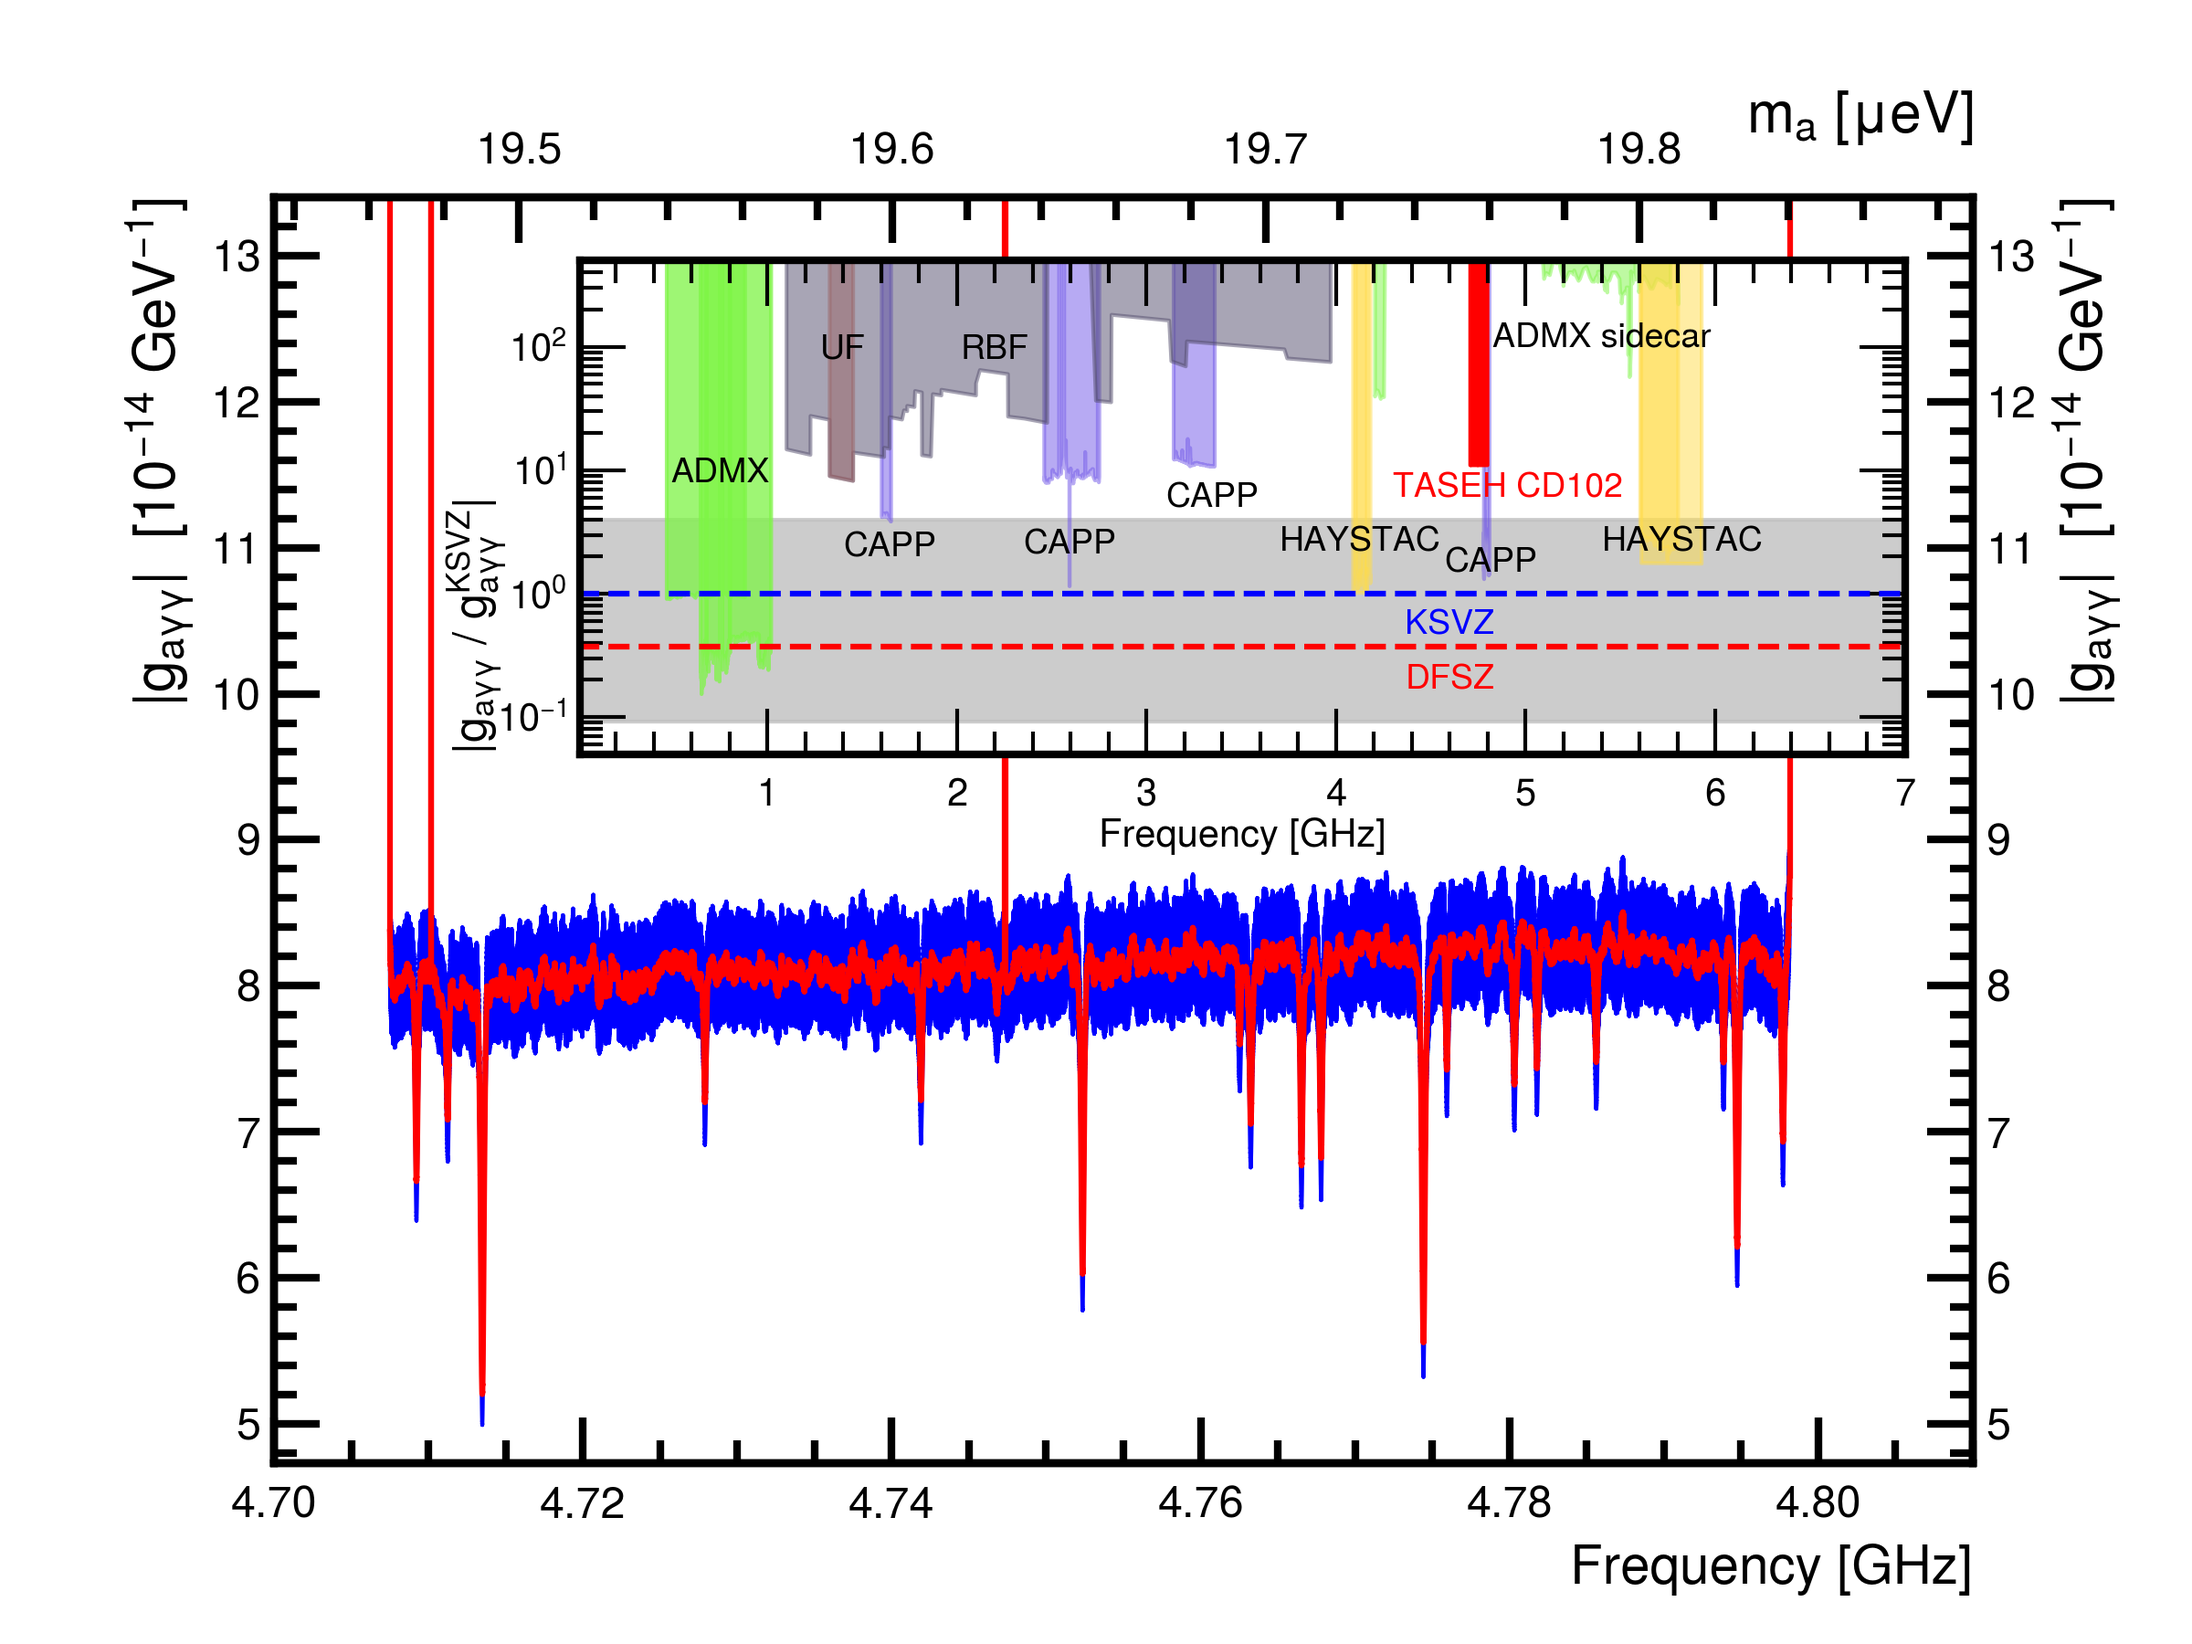
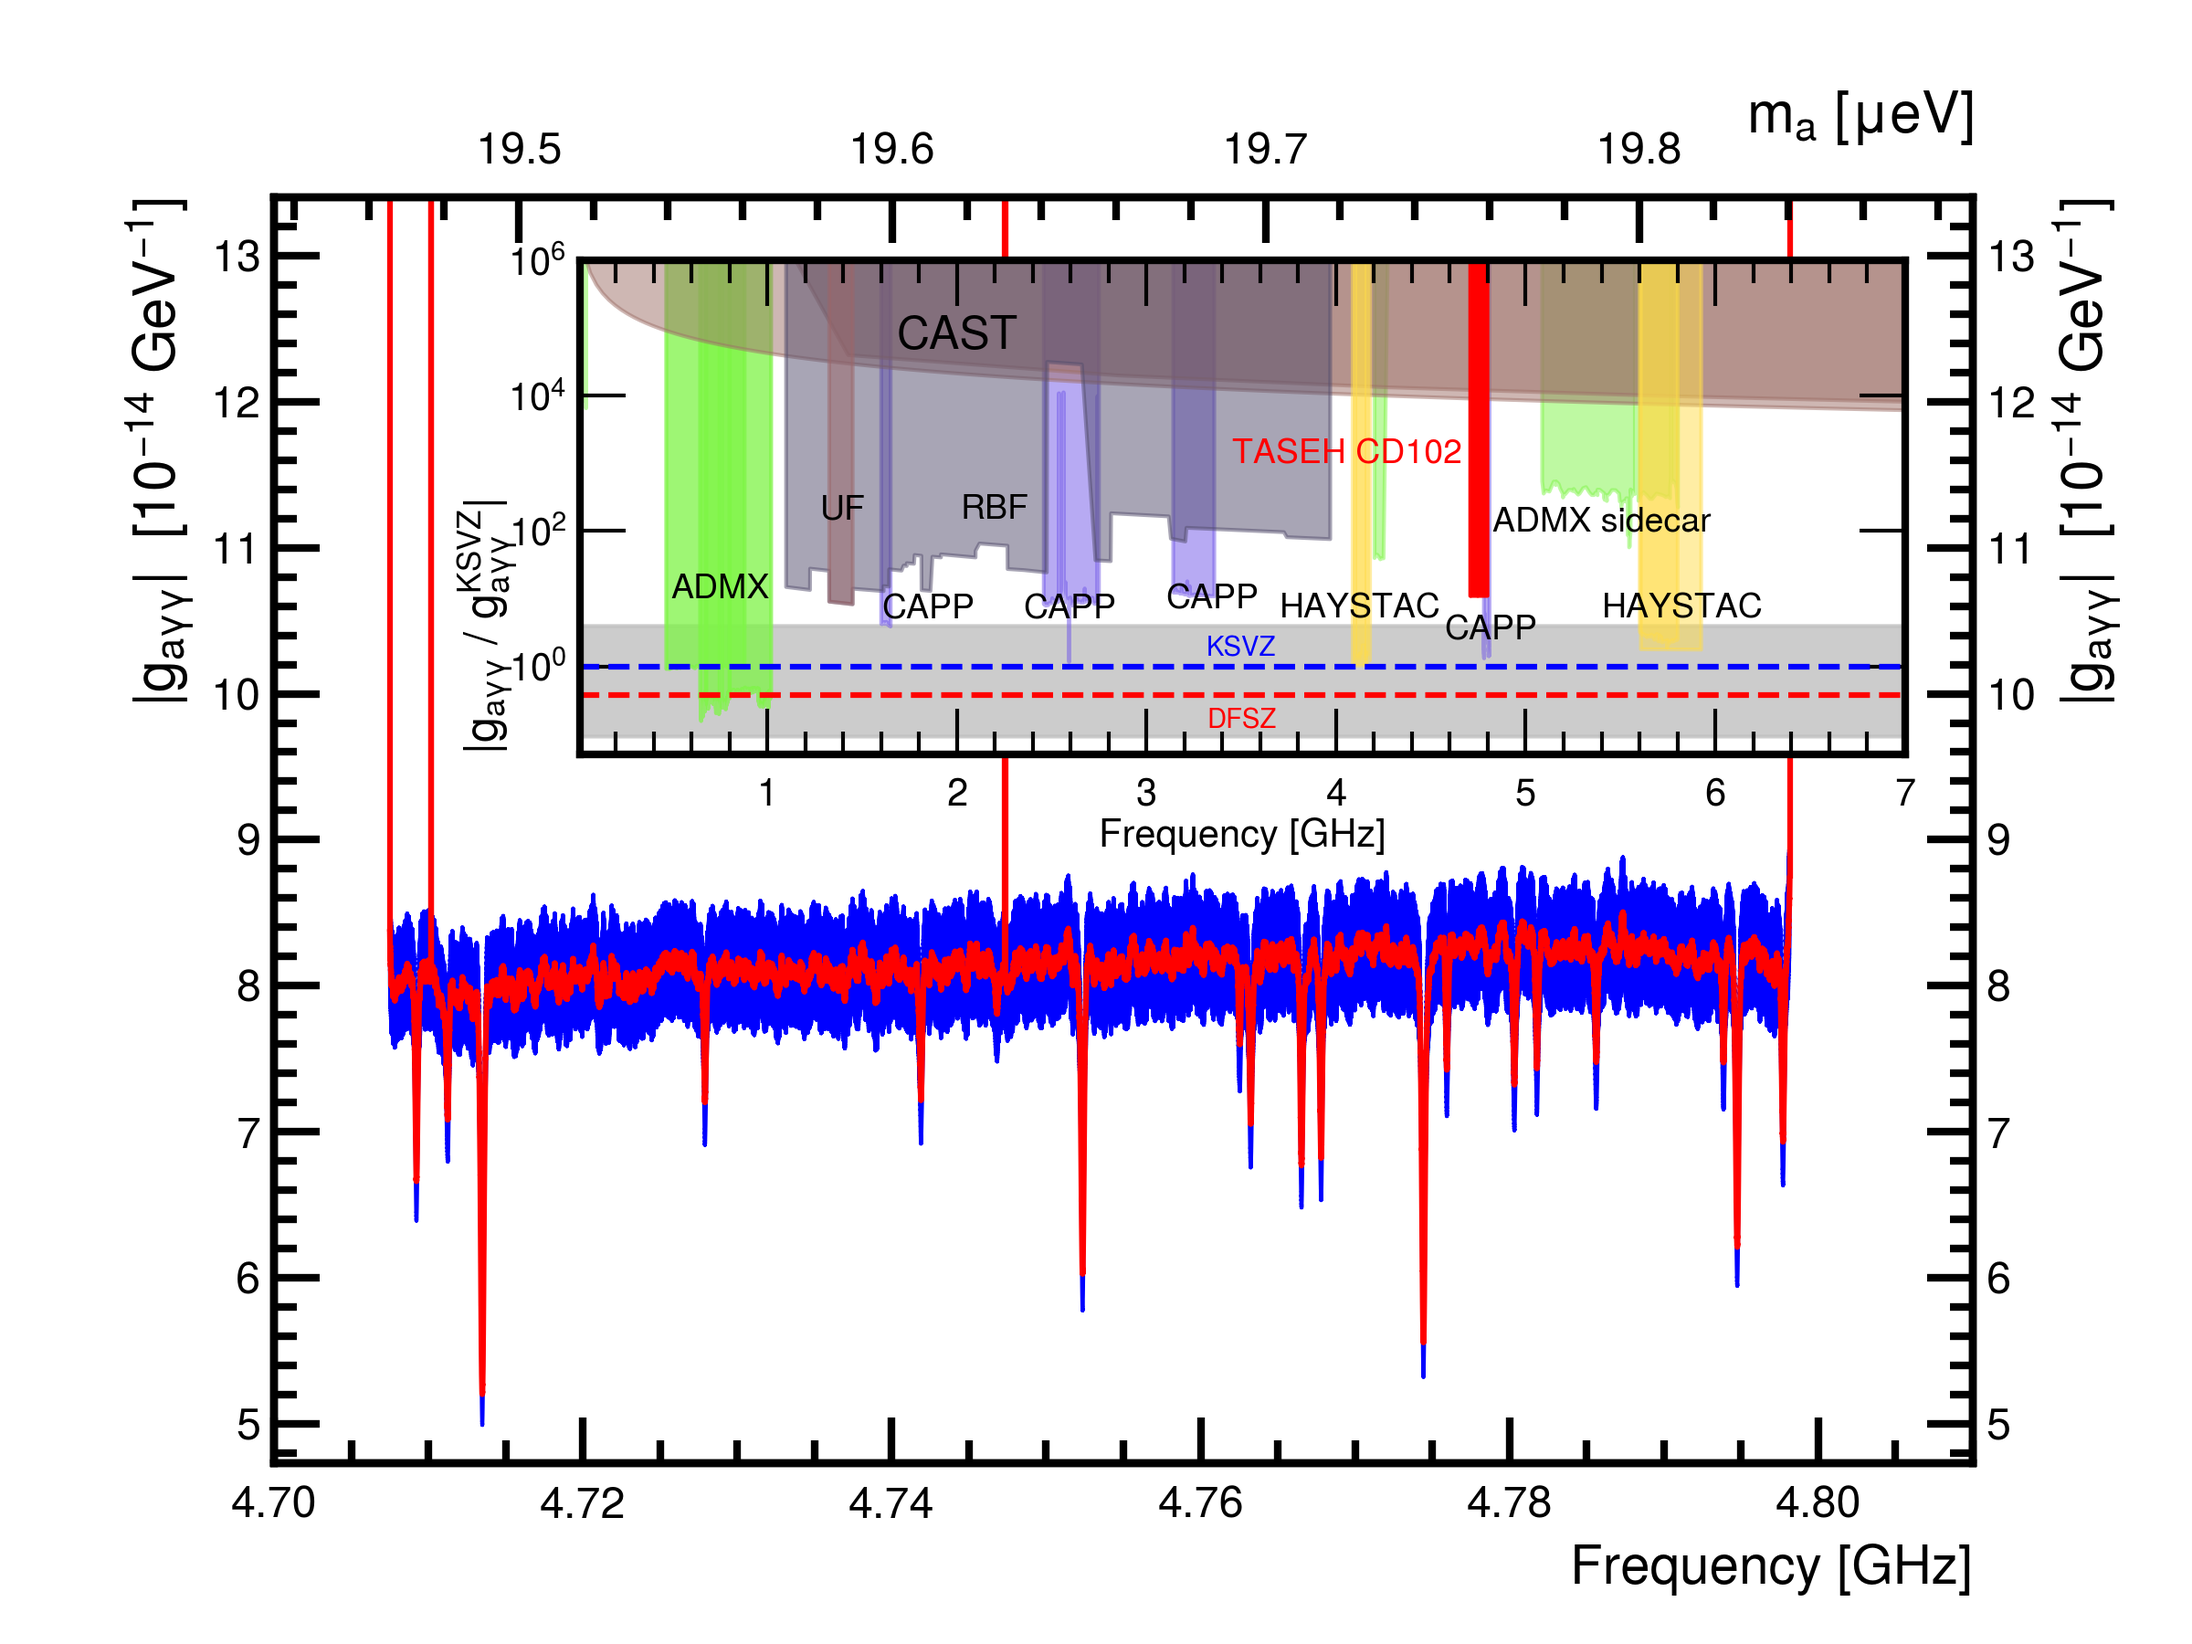
2022/7/12

Changed region(s): [[0.1875, 0.1556, 0.875, 0.4667]]

diff --git a/plot_limit.py b/plot_limit.py
@@ -18,15 +18,16 @@ OUTPUT_FILE_NAME        = "limit.png"
 SHOW_OTHER_EXPERIMENT   = 1 #  1 : show others experiment data  0 : don't show
 PLOT_SQUARE             = 1 #  1 : plot TASEH limit with suare  0 : don't do that
 LOG_PLOT                = 1 #  1 : plot with log and add {admx sidecar}, {UF} and {RBF}. 0 :plot with linear
-
+CAST                    = 1 #  1 : plot CAST
 
 color_map ={
     "ADMX"   :"#7FF547",
     "HAYSTAC":"#FFDC4A",
     "CAPP"   :"#7157E8",
     "UF"     :"#9B6669",
-    "RBF"    :"#534D6D"
- }
+    "RBF"    :"#534D6D",
+    "CAST"   :"#9E7068"
+}
 
 ########################################################################## functions
 def ma_to_freq(ma):   # eat ev output GHz
@@ -70,7 +71,7 @@ print(f"[*] Creating figures")
 matplotlib.rcParams.update({'font.size': 14})
 g = Glimit()
 g.big_A= 77.6e6
-
+upper_bound = 1e30
 # create plot
 fig        = figure(figsize=(8,6))
 ax         = fig.add_subplot(111)
@@ -168,7 +169,8 @@ if (SHOW_OTHER_EXPERIMENT):
     if (LOG_PLOT):
         WANT.append("RBF")
         WANT.append("UF")
-        
+    if (CAST):
+        WANT.append("CAST")
 
     for each_limit_file in glob(f"{INPUT_EXPERIMENT_FLODER}/*.csv"):
         flag = 0
@@ -186,42 +188,84 @@ if (SHOW_OTHER_EXPERIMENT):
         df = pd.read_csv(each_limit_file,index_col=0)
         limit  = array(df["G_ap[GeV^-1]"].values,dtype=float)
         this_x = ma_to_freq(df["m_a [eV]"].values)
-        this_g_gamma = limit*  (pi * g.big_A * g.big_A) / (g.h_bar* 2*pi*this_x * g.alpha*1e18) / 0.97
+        this_g_gamma = limit*  (pi * g.big_A * g.big_A) / (g.h_bar* 2*pi*this_x * g.alpha*1e18)/ 0.97
         
         if ("RBF" in each_limit_file):
             sort_index = argsort(this_x)
             this_x = this_x[sort_index]
 
+        if ("CAST" in each_limit_file):
+            new_x       = linspace(this_x[0],this_x[3],1000)
+            this_interp = interp(new_x , this_x[:5], limit[:5])
+            this_g_gamma = this_interp*  (pi * g.big_A * g.big_A) / (g.h_bar*2*pi*new_x * g.alpha*1e18)/0.97
+            this_x       = new_x
+
         print(f"\t{os.path.basename(each_limit_file):30} : {mean(this_g_gamma)}")
 
-        inset_axes.fill_between(this_x, this_g_gamma,10000,alpha=.5,color=this_color,label=os.path.basename(each_limit_file)[0:-4])
+        inset_axes.fill_between(this_x, this_g_gamma,upper_bound,alpha=.5,color=this_color,label=os.path.basename(each_limit_file)[0:-4])
 
     if (PLOT_SQUARE):
-        inset_axes.fill_between(hein_limit_freq * 1e-9,mean_center+center_limits_g_gamma*0,10000,color="r")
+        inset_axes.fill_between(hein_limit_freq * 1e-9,mean_center+center_limits_g_gamma*0,upper_bound,color="r")
     else:
-        inset_axes.fill_between(hein_limit_freq * 1e-9,center_limits_g_gamma,10000,color="r")
+        inset_axes.fill_between(hein_limit_freq * 1e-9,center_limits_g_gamma,upper_bound,color="r")
+
 
     if (LOG_PLOT):
-        inset_axes.set_yscale("log")
-        inset_axes.set_ylim(0.05,500)
-        inset_axes.set_xlim(0.01,7)
-        inset_axes.text(1.4,2,"CAPP",size=9)
-        inset_axes.text(2.35,2.1,"CAPP",size=9)
-        inset_axes.text(3.1,5,"CAPP",size=9)
-        inset_axes.text(3.7,2.2,"HAYSTAC",size=9)
-        inset_axes.text(5.4,2.2,"HAYSTAC",size=9)
-        inset_axes.text(0.75,8,"ADMX",size=9,ha="center")
-        inset_axes.text(5.4,100,"ADMX sidecar",size=9,ha="center")
-        if (PLOT_SQUARE):
-                inset_axes.text(4.3,6,"TASEH CD102",size=9,color="r")
+        if (CAST):
+            inset_axes.set_yscale("log")
+            inset_axes.set_ylim(0.05,1e6)
+            inset_axes.set_xlim(0.01,7)
+            inset_axes.text(1.6,5,"CAPP",size=9)
+            inset_axes.text(2.35,5.1,"CAPP",size=9)
+            inset_axes.text(3.1,7,"CAPP",size=9)
+            inset_axes.text(3.7,5.2,"HAYSTAC",size=9)
+            inset_axes.text(5.4,5.2,"HAYSTAC",size=9)
+            inset_axes.text(0.75,10,"ADMX",size=9,ha="center")
+            inset_axes.text(5.4,100,"ADMX sidecar",size=9,ha="center")
+            inset_axes.text(3.45,1000,"TASEH CD102",size=9,color="r")
+            inset_axes.text(4.57,2.5,"CAPP",size=9)
+            inset_axes.text(1.4,150,"UF",size=9,ha="center")
+            inset_axes.text(2.2,150,"RBF",size=9,ha="center")
+            inset_axes.text(2,0.5e5,"CAST",size=12,ha="center")
+            inset_axes.text(3.5,1.4,"KSVZ",size=7,c="b",ha="center")
+            inset_axes.text(3.5,0.12,"DFSZ",size=7,c="r",ha="center")
         else:
-            inset_axes.text(4.3,4,"TASEH CD102",size=9,color="r")
-        inset_axes.text(4.57,1.5,"CAPP",size=9)
-        inset_axes.text(1.4,80,"UF",size=9,ha="center")
-        inset_axes.text(2.2,80,"RBF",size=9,ha="center")
-        inset_axes.text(4.6,0.47,"KSVZ",size=9,c="b",ha="center")
-        inset_axes.text(4.6,0.17,"DFSZ",size=9,c="r",ha="center")
+            inset_axes.set_yscale("log")
+            inset_axes.set_ylim(0.05,500)
+            inset_axes.set_xlim(0.01,7)
+            inset_axes.text(1.4,2,"CAPP",size=9)
+            inset_axes.text(2.35,2.1,"CAPP",size=9)
+            inset_axes.text(3.1,5,"CAPP",size=9)
+            inset_axes.text(3.7,2.2,"HAYSTAC",size=9)
+            inset_axes.text(5.4,2.2,"HAYSTAC",size=9)
+            inset_axes.text(0.75,8,"ADMX",size=9,ha="center")
+            inset_axes.text(5.4,100,"ADMX sidecar",size=9,ha="center")
+            if (PLOT_SQUARE):
+                    inset_axes.text(4.3,6,"TASEH CD102",size=9,color="r")
+            else:
+                inset_axes.text(4.3,4,"TASEH CD102",size=9,color="r")
+            inset_axes.text(4.57,1.5,"CAPP",size=9)
+            inset_axes.text(1.4,80,"UF",size=9,ha="center")
+            inset_axes.text(2.2,80,"RBF",size=9,ha="center")
+            inset_axes.text(4.6,0.47,"KSVZ",size=9,c="b",ha="center")
+            inset_axes.text(4.6,0.17,"DFSZ",size=9,c="r",ha="center")
 
+    elif (CAST):
+        inset_axes.set_yscale("log")
+        inset_axes.set_ylim(0.05,1e6)
+        inset_axes.set_xlim(0.01,7)
+        inset_axes.text(1.6,5,"CAPP",size=9)
+        inset_axes.text(2.35,5.1,"CAPP",size=9)
+        inset_axes.text(3.1,7,"CAPP",size=9)
+        inset_axes.text(3.7,5.2,"HAYSTAC",size=9)
+        inset_axes.text(5.4,5.2,"HAYSTAC",size=9)
+        inset_axes.text(0.75,10,"ADMX",size=9,ha="center")
+        inset_axes.text(5.4,100,"ADMX sidecar",size=9,ha="center")
+        inset_axes.text(3.45,1000,"TASEH CD102",size=9,color="r")
+        inset_axes.text(4.57,2.5,"CAPP",size=9)
+        inset_axes.text(2,0.5e5,"CAST",size=12,ha="center")
+        inset_axes.text(3.5,1.4,"KSVZ",size=7,c="b",ha="center")
+        inset_axes.text(3.5,0.12,"DFSZ",size=7,c="r",ha="center")
     else:
         inset_axes.text(1.4,2.4,"CAPP",size=9)
         inset_axes.text(2.35,2.5,"CAPP",size=9)
@@ -242,7 +286,7 @@ if (SHOW_OTHER_EXPERIMENT):
             inset_axes.text(4.3,4.2,"TASEH CD102",size=9,color="r")
 else:
     if (PLOT_SQUARE):
-        inset_axes.fill_between(hein_limit_freq * 1e-9,mean_center+center_limits_g_gamma*0,10000,color="r")
+        inset_axes.fill_between(hein_limit_freq * 1e-9,mean_center+center_limits_g_gamma*0,upper_bound,color="r")
         inset_axes.text(4.75,7.5,"TASEH CD102",size=12,color="black",ha='center')
     else:
 
@@ -258,8 +302,8 @@ else:
                 flag = not flag
         inset_axes.fill_between(hein_limit_freq * 1e-9,upper__limits_g_gamma*1e13,lower__limits_g_gamma*1e13,color="blue")
         ploy_line = inset_axes.plot(hein_limit_freq * 1e-9,center_limits_g_gamma,"r",linewidth=1)
-        inset_axes.vlines(x=hein_limit_freq[0 ]*1e-9,ymax=10000,ymin=center_limits_g_gamma[0],color="r")
-        inset_axes.vlines(x=hein_limit_freq[-1]*1e-9,ymax=10000,ymin=center_limits_g_gamma[-1],color="r")
+        inset_axes.vlines(x=hein_limit_freq[0 ]*1e-9,ymax=upper_bound,ymin=center_limits_g_gamma[0],color="r")
+        inset_axes.vlines(x=hein_limit_freq[-1]*1e-9,ymax=upper_bound,ymin=center_limits_g_gamma[-1],color="r")
 
 
 savefig(OUTPUT_FILE_NAME,dpi=300)
